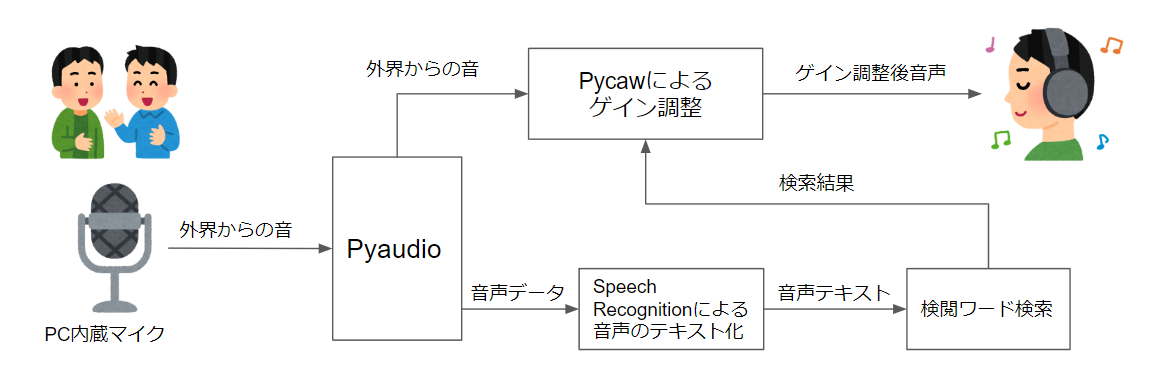
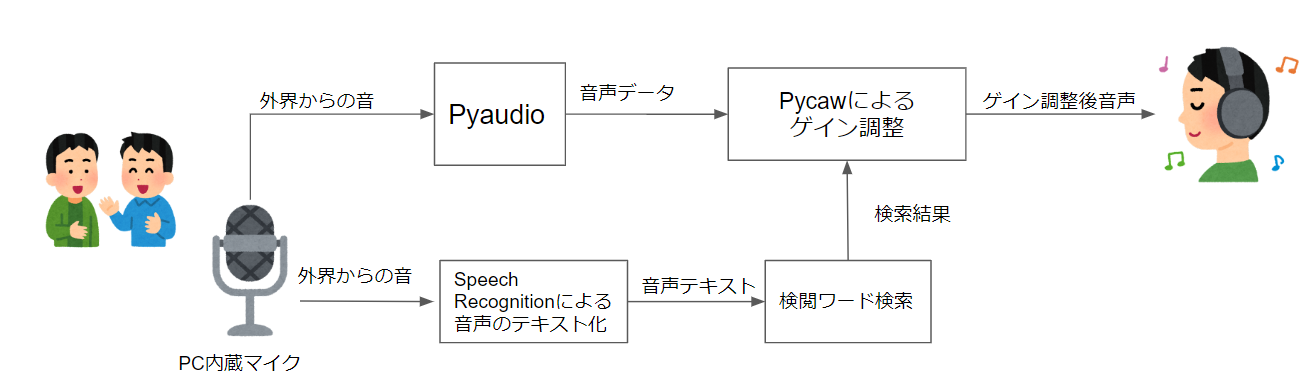
Fig.1の差し替え，システムについての記述追加

diff --git a/Latex/SI2022/Ver1/Yokou.tex b/Latex/SI2022/Ver1/Yokou.tex
@@ -25,8 +25,8 @@ When we obtain information visually, it is possible to filter only the informati
 SIでは予稿原稿としてPDFファイル形式のファイルを電子投稿していただくことを原則とさせていただいております．
 ただし，電子化やネットワーク接続が困難な場合には個別に対応させていただきますので，プログラム委員会までご相談ください(Webサイトからお問い合わせできます)．
 %
-\section{自動ゲイン調整システム}
-\subsection{システムの構成}
+\section{自動ゲイン調整装置}
+\subsection{装置の構成}
 \begin{figure}[htbp]
     \begin{center}
     \includegraphics[width=80mm]{system.PNG}
@@ -34,7 +34,15 @@ SIでは予稿原稿としてPDFファイル形式のファイルを電子投稿
     \label{fig:system}
     \end{center}
     \end{figure}
-本稿で使用したシステムの構成をFig.\ref{fig:system}に示す
+本稿で使用した装置の構成をFig.\ref{fig:system}に示す.
+本装置はワイヤレスノイズキャンセリングヘッドフォン，PC，マイクによって構成される．
+PCの中に，Pythonで書かれたシステムが搭載されており，これによってマイクからの音に対して自動でゲイン調整を行う．
+以下に，マイクから音を拾って，ユーザーがゲイン調整された音を聞くまでのシステム内の流れを示す．
+まず，外界からの音をマイクによって拾い，Google社のSpeech recogntionによってノイズ処理と音声のテキスト化が行われる．
+次に，生成されたテキストは検閲ワード検索クラスに送られ，あらかじめ設定された検閲ワードがテキスト中に含まれていないかどうか検索が行われる．
+もし，テキスト中に検閲ワードが含まれていた場合は，「検閲ワードあり」の情報がゲイン調整クラスに送られる．
+一方で，外界からの音はPythonライブラリであるPyaudioによってチャンクごとの音声データに分けられる．（Fig.\ref{fig:system}の上部分）
+
     
 \section{ゲイン調整システムの検証実験}
 \subsection{システムによる音のカットの確認}
